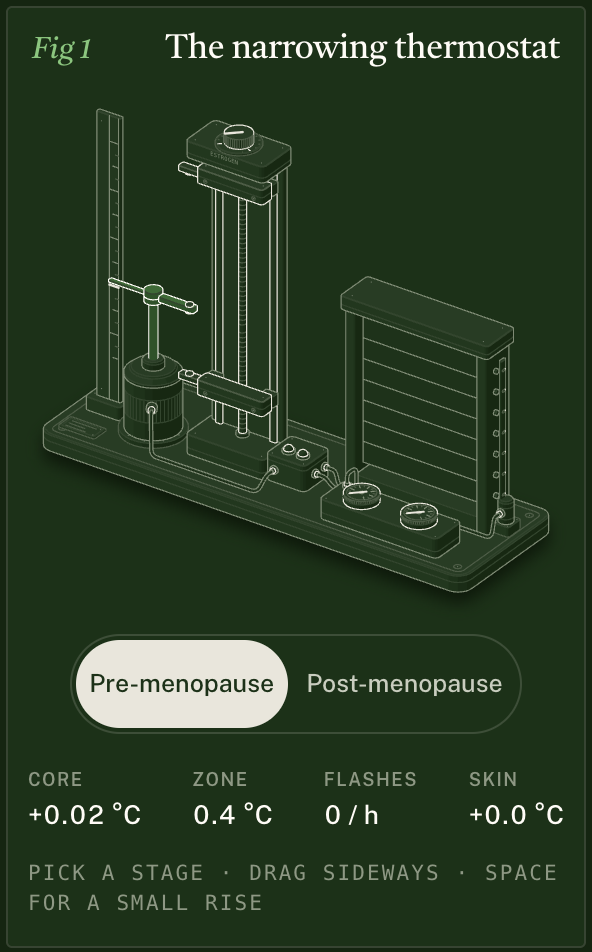
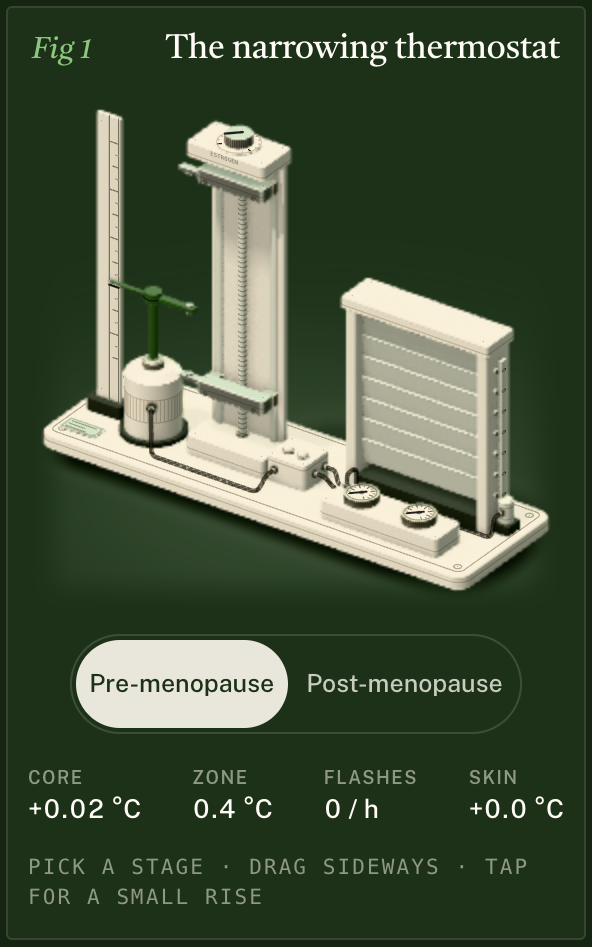
Fig 1 (the narrowing thermostat) on the shared 3-D layer
Fig 1 has its own local helpers, so its build keeps its own list of solids
for the layer: 80 rendered parts. The rod, both jaws and the linkage bar
move with gl.move; the seven slats get a frame each draw; the radiator
core glows with the louvre value and the two lamps fade as the drawing's
do. White housings, graphite feet and sill, steel rails and screw,
aluminium knob and jaws, nickel bezels; forest only on the lit column.
In the render the louvres rest at 8 degrees (flat they are one coplanar
sheet), and seated parts sink a little into what they stand on. With the
layer off the drawing is string-identical to before.

diff --git a/figures/01-menopause-thermostat/live.js b/figures/01-menopause-thermostat/live.js
@@ -25,6 +25,23 @@ function mount(fig) {
   const still = matchMedia("(prefers-reduced-motion: reduce)");
 
   const zOf = (t) => DATA.ZREF + t * DATA.KZ;
+  // The 3-D layer (shared/gl3): the same solids, rendered under this SVG. Until it arrives every call is a no-op.
+  // When it arrives (or is lost) everything is pushed again: forget what was drawn and draw.
+  const night = (fig.closest("[data-theme]")?.getAttribute("data-theme") ?? "dark") !== "light";
+  const gl = gl3Attach(fig, {
+    // at night the few upright metal parts wear their second finish (see build.mjs, NIGHT)
+    scene: night ? { ...DATA.gl3, parts: DATA.gl3.parts.map((part) => (part.mn ? { ...part, m: part.mn } : part)) } : DATA.gl3,
+    P,
+    W: DATA.W,
+    H: DATA.H,
+    file: DATA.gl3.file,
+    v: DATA.gl3.v,
+    redraw: () => {
+      for (const key of Object.keys(drawn)) delete drawn[key];
+      draw();
+    },
+  });
+  let glDirty = false;
   const SPEED = 1; // model minutes per real second
   const QUIET = 4; // minutes between the end of one event and the next rise (the cut quiet time)
   const CHILL_END = TRUTH.chillMin[2];
@@ -53,6 +70,18 @@ function mount(fig) {
     const F = G.frameOf([DATA.slat.x, DATA.slat.y, zc], [1, 0, 0], [0, Math.sin(a), Math.cos(a)], [0, -Math.cos(a), Math.sin(a)]);
     return solidSvg(G.prismOf(F, DATA.slat.poly, 0, DATA.slat.len, P), { tone: "mid" });
   };
+  // the same blade for the rendered slat: the frame the build recorded it in (axis = the blade's normal), turned
+  // (shut, the rendered blades lap like shingles at slatRest; they reach the drawing's angle at full open)
+  const slatBlade = (zc, deg) => {
+    const a = ((DATA.slatRest + deg * (1 - DATA.slatRest / DATA.slatOpen)) * Math.PI) / 180;
+    return G.frameOf([DATA.slat.x, DATA.slat.y, zc], [0, -Math.cos(a), Math.sin(a)], [1, 0, 0], [0, Math.sin(a), Math.cos(a)]);
+  };
+  // The two lamps and the radiator core glow in the render (the drawing's lamp colours and heat wash, as light).
+  // A lamp's lens goes from white to its colour over 300 ms, like the drawing's own fill transition.
+  const LAMP = { warm: [0xb8401c, 0xff5222], cool: [0x2f6fae, 0x3f8fe0], off: 0xece8de };
+  const mixHex = (a, b, t) => [16, 8, 0].reduce((hex, s) => hex | (Math.round(((a >> s) & 255) + (((b >> s) & 255) - ((a >> s) & 255)) * t) << s), 0);
+  const glow = { warm: 0, cool: 0 };
+  let glowAt = 0;
   const crankTip = (zc, deg) => {
     const a = (deg * Math.PI) / 180;
     return DATA.bar.pivotY - DATA.bar.crank * Math.cos(a);
@@ -167,14 +196,24 @@ function mount(fig) {
       if (drawn[key] !== value) {
         drawn[key] = value;
         fn(value);
+        glDirty = true;
       }
     };
     const zf = zOf(shown);
-    set("rod", Math.round(zf * 100) / 100, (z) => move(rodItems, z - DATA.rod0));
+    set("rod", Math.round(zf * 100) / 100, (z) => {
+      move(rodItems, z - DATA.rod0);
+      gl.move("rod", [0, 0, z - DATA.rod0]);
+    });
     const du = zOf(zone.sweat) - DATA.zone0.sweat;
     const dl = zOf(zone.shiver) - DATA.zone0.shiver;
-    set("jawU", Math.round(du * 100) / 100, (v) => move(jawU, v));
-    set("jawL", Math.round(dl * 100) / 100, (v) => move(jawL, v));
+    set("jawU", Math.round(du * 100) / 100, (v) => {
+      move(jawU, v);
+      gl.move("jawU", [0, 0, v]);
+    });
+    set("jawL", Math.round(dl * 100) / 100, (v) => {
+      move(jawL, v);
+      gl.move("jawL", [0, 0, v]);
+    });
     set("thread", Math.round(du * 50) / 50, () => {
       const lower = screwRings(dl, DATA.screwZ[0], DATA.screwMid - 1, 1);
       const upper = screwRings(-du, DATA.screwMid + 1, DATA.screwZ[1], -1);
@@ -184,8 +223,11 @@ function mount(fig) {
     const deg = DATA.slatOpen * flash.louvre;
     set("slats", Math.round(deg * 4) / 4, (d) => {
       slats.forEach((node, i) => (node.innerHTML = slatSvg(DATA.slats[i], d)));
+      DATA.slats.forEach((zc, i) => gl.set(`slat.${i}`, { F: slatBlade(zc, d) }));
       const lift = DATA.bar.crank * Math.sin((d * Math.PI) / 180);
       move([bar], lift);
+      gl.move("bar", [0, 0, lift]);
+      gl.set("rad.core", { emissive: 0xff6028, intensity: 1.2 * flash.louvre });
       crankpins.innerHTML = dotsSvg(DATA.slats.map((zc) => at3([DATA.bar.x, crankTip(zc, d), zc])), { size: 0.8, tone: "hi" });
       wash.style.opacity = String(flash.louvre);
     });
@@ -193,6 +235,14 @@ function mount(fig) {
     set("hr", Math.round(flash.hr * 10), () => needles.hr.setAttribute("d", needleAt("hr", DIALS.hr.angleOf(flash.hr))));
     set("warm", flash.on > 0.25, (on) => (on ? lamps.warm.setAttribute("data-on", "") : lamps.warm.removeAttribute("data-on")));
     set("cool", chilled, (on) => (on ? lamps.cool.setAttribute("data-on", "") : lamps.cool.removeAttribute("data-on")));
+    const stamp = performance.now();
+    const fade = still.matches || !frame ? 1 : Math.min(1, (stamp - glowAt) / 300);
+    glowAt = stamp;
+    for (const name of ["warm", "cool"]) {
+      const to = drawn[name] ? 1 : 0;
+      glow[name] += Math.max(-fade, Math.min(fade, to - glow[name]));
+      set(`glow.${name}`, Math.round(glow[name] * 40) / 40, (g) => gl.set(`lamp.${name}`, { color: mixHex(LAMP.off, LAMP[name][0], g), emissive: LAMP[name][1], intensity: 0.95 * g }));
+    }
 
     const sign = (v, digits) => (v >= 0 ? "+" : "−") + Math.abs(v).toFixed(digits);
     const rate = rateOf(e);
@@ -209,6 +259,10 @@ function mount(fig) {
       if (now && document.activeElement === stage) status.textContent = now;
     }
     stage.setAttribute("data-flash", flash.on > 0.25 ? "on" : "off");
+    if (glDirty) {
+      glDirty = false;
+      gl.render();
+    }
   }
   const at3 = (p) => iso(p, P);
 

diff --git a/figures/01-menopause-thermostat/NOTES.md b/figures/01-menopause-thermostat/NOTES.md
@@ -1,6 +1,6 @@
 # Fig 1 · The narrowing thermostat
 
-**Size:** Figure (one mechanism; 75 recorded solids, 3 cables, 96 painted items). SVG only; no WebGL layer.
+**Size:** Figure (one mechanism; 75 recorded solids, 3 cables, 96 painted items). One WebGL layer, the shared `shared/gl3` (since Nov 10): it renders the same solids under the SVG, and the SVG is the whole figure wherever the layer can't run (`?gl=off` shows it).
 
 **Mapping in one sentence:** a capsule pushes a lit column up and down between two contact jaws on a lead screw: the gap between the jaws is the thermoneutral zone, the estrogen knob closes the jaws, and when a small natural rise brings the column's finger onto the upper jaw, the circuit opens the radiator's louvres (skin vasodilation), swings the skin and heart-rate dials, and the column then dips below rest (the after-chill), which on a narrow zone can touch the lower jaw too.
 
@@ -9,10 +9,11 @@
 | File | What it is |
 |---|---|
 | `model.mjs` | Pure model: `zoneOf(e)`, `rateOf(e)`, `flashAt(t)`, `swingAt(s)`, knob and dial scales. Imported by the build and inlined in the page |
-| `build.mjs` | Geometry, audit recorder, card, page, embed. `--light` for Cream, `--audit` to prove the geometry |
-| `live.js` | Motion, tour, input, readout. Every value comes from `model.mjs` |
+| `build.mjs` | Geometry, audit recorder, card, page, embed. `--light` for Cream, `--audit` to prove the geometry. Its own `box` / `cyl` / `turned` / `pin` / `cable` helpers also note each solid for the 3-D layer |
+| `live.js` | Motion, tour, input, readout. Every value comes from `model.mjs`. Mirrors every mover into the 3-D layer |
 | `figure.css` | Heat wash, lamp colours, the lit column's green wash |
 | `embed/optimal-fig-menopause-thermostat.js` | Self-contained custom element (built with `--light`) |
+| `embed/optimal-gl3.js` | The shared 3-D chunk, copied by the build; the embed loads it lazily from beside itself |
 | `shots/` | Phone 390/360/320 and desktop in both themes, 4× close-ups |
 
 ## Parts (75 recorded solids, ≈ 110 parts counting screws, ticks and seams)
@@ -57,6 +58,38 @@ All in `reference/truth-pack.md` §1 ("How Fig 1 uses these numbers").
 - **Time.** About one model minute per second, quiet spells between rises cut; the caption says so.
 - **Colour.** Only heat: the radiator core's warm wash and the flash lamp (`--opt-heat-ink`), and the chill lamp (`--opt-cold-ink`). The lit part is the forest-green column.
 
+## The 3-D layer (shared/gl3, 2026-11-10)
+
+This figure does not use `shared/figkit.mjs`, so `build.mjs` keeps its own `GL` list: every local helper pushes one descriptor (`glPart.prism | lathe | tube`) with the frame, outline and extents the kit call gets, and the piece name for movers. Solids drawn by a direct kit call are noted by hand: base plate, feet, label plate, capsule body, rod, lead screw, lamp domes, slats, linkage bar. 80 rendered parts. `gl3SceneOf(GL, …)` gives each a material by name.
+
+**Colourway.** Warm white enamel (`shell`) for the plate and every housing, the scale board, knob plate and dial faces (ink reads on them). `graphite` for the feet, the capsule's flange, the scale's foot, the solenoid's plinth, terminal bosses, and the radiator's sill and core. `rubber` for foot pads and cables. Metal for what is turned or ground: `steel` rails, screw and contacts, `alu` knob, jaws, linkage bar, solenoid can and label plate, `nickel` bezels, bushings, bearings, gland, pins and studs. `satin` louvres. **Green is only the lit column** (rod, collar, finger, index) in `forest`, so the legend's "lit" swatch still means one thing. The only warm colour is the flash: the core glows and the flash lamp lights; the chill lamp is the only blue.
+
+**Movers** (each mirrored in `live.js` inside the same `set(…)` call that moves the SVG, so the two never disagree):
+
+| SVG | Layer |
+|---|---|
+| `[data-move=rod]` translate | `gl.move("rod", [0, 0, dz])` |
+| `[data-move=jawU]`, `[data-move=jawL]` | `gl.move("jawU" / "jawL", [0, 0, dz])` |
+| slats redrawn each frame | `gl.set("slat.i", { F })`, the blade's frame turned about the same pivot |
+| linkage bar translate | `gl.move("bar", [0, 0, lift])` |
+| heat wash opacity = louvre | `gl.set("rad.core", { emissive, intensity ∝ louvre })` |
+| lamp `data-on` (300 ms fill transition) | `gl.set("lamp.warm" / "lamp.cool", { color, emissive, intensity })`, eased over the same 300 ms |
+| thread rings, knob pointer, dial needles, crank pins, ticks | ink only; nothing to render |
+
+When the layer arrives (or is lost) `redraw` forgets what was drawn and draws once, so every mover is pushed again. `gl.render()` runs only on frames where something changed.
+
+**Where the render departs from the drawing, on purpose** (the drawing with the layer off is byte-for-byte the old one; the build's SVG was diffed against the previous commit's):
+
+- **Shingled louvres.** The blades are 15.4 wide on a 13 pitch, so shut and flat (as drawn) they are one coplanar sheet and the render showed a blank panel. The rendered blades rest at 8° (the least that clears the 1.4 thickness is 6.2°) and reach the drawing's own 60° at full open: `8 + deg × (1 − 8/60)`. The blades' ends are let 0.6 into the posts.
+- **Seats.** The renderer rounds both ends of every solid; a rounded foot standing on a face leaves a hairline undercut that reads as grit at phone size. Seated parts are let into what they stand on by 0.4 to 1.2 (`gl: { seat }`; boxes on the plate by default). Nothing visible moves.
+- **One capsule shell.** Body and cap are one turned solid in the render (same 16 wall), so there is no groove at the joint.
+- **Rod and bar run on inside.** The rendered rod reaches down into the capsule and the rendered bar into the solenoid, so neither shows a foot at full stroke (the SVG does this with clip paths).
+- **Dials.** The bezel is a nickel ring with the face let in 0.5 behind it (`dial.*.face`, `shell`); the ink ring at R − 1.8 is the bezel's inner edge.
+- **Night finish.** Forest night dims the studio's floor and upright metal mirrors the floor, so steel rails and a steel screw went black and lost the thread. Rails, screw, linkage bar and solenoid can carry a second finish (`mn: "satin"`) that `live.js` swaps in when the theme is dark. This belongs in the shared studio (a brighter floor bounce at night); it is done here because `shared/` was out of bounds.
+- **Look.** `look: { aoRadius: 9, ao: 0.55 }`: at the phone quality level (half-resolution occlusion) the default radius (12 for this span) and full strength left blotchy patches on the upright and beside the radiator posts; a radius of 7 speckled the jaw under the bridge. The key light's shadows and the floor shadow are untouched.
+
+**Known limits.** At the phone quality level (half-resolution occlusion) a faint comb can show where a jaw meets the back plate; it is the shared occlusion pass, not this figure. The floor shadow is the shared one.
+
 ## Interaction
 
 - **Buttons:** Pre-menopause / Post-menopause (radio group, arrow keys move between them).
@@ -64,6 +97,13 @@ All in `reference/truth-pack.md` §1 ("How Fig 1 uses these numbers").
 - **Idle tour** (54 s loop): a rise with the zone wide (nothing), the knob turns to post, the same rise trips a flash and the after-chill, the knob turns back. Pauses on input and resumes 3.6 s after the last one.
 - **Reduced motion:** one still frame at the post end with a flash at its height (finger on the upper jaw, louvres open, dials up); the buttons still switch between the two states.
 - **Offscreen:** the loop stops (IntersectionObserver).
+
+## Verification (2026-11-10, with the 3-D layer)
+
+- `node scripts/verify.mjs 01-menopause-thermostat`: see the table it prints (phones 390 / 360 / 320 in both themes, reduced motion, desktop, line ends with `?gl=off`). The stage ends at `data-gl3="on"` with a clean console.
+- `node build.mjs --audit` → `audit passed` (unchanged: 75 solids, 96 items, 15 depth states).
+- The SVG and the plate markup of both pages and the embed are identical to the previous commit's build (string compare).
+- The embed was tested in both themes on a plain host page: the layer mounts in the shadow root and loads the chunk from beside the embed script.
 
 ## Verification (2026-10-11)
 
@@ -87,5 +127,5 @@ All in `reference/truth-pack.md` §1 ("How Fig 1 uses these numbers").
 
 1. **Treatment switch:** waiting on HANDOFF §7 Q2.
 2. **Sources:** values were checked against abstracts and search extracts, not full text (network policy). Freedman 1999's shivering thresholds and the after-chill size are the weakest links; neither is printed.
-3. **WebGL heat shimmer:** optional per HANDOFF; not built, because the SVG wash already carries it on phones. Can add if wanted.
+3. **WebGL heat shimmer:** optional per HANDOFF; not built. With the 3-D layer on, the core now glows during a flash (emissive, in step with the wash); there is still no shimmer.
 4. **Medical sign-off:** HANDOFF §7 Q4.
